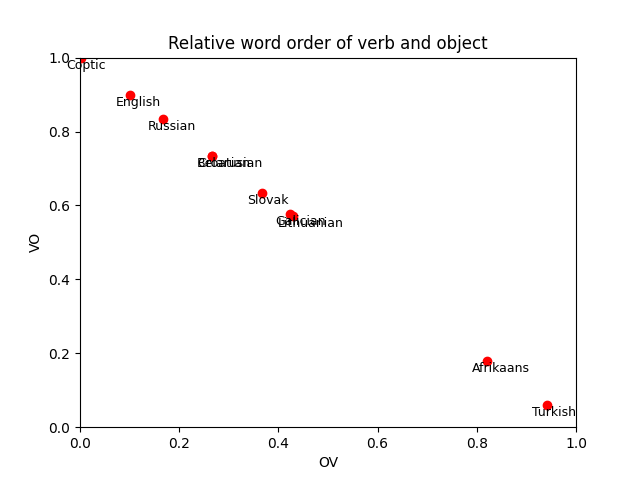
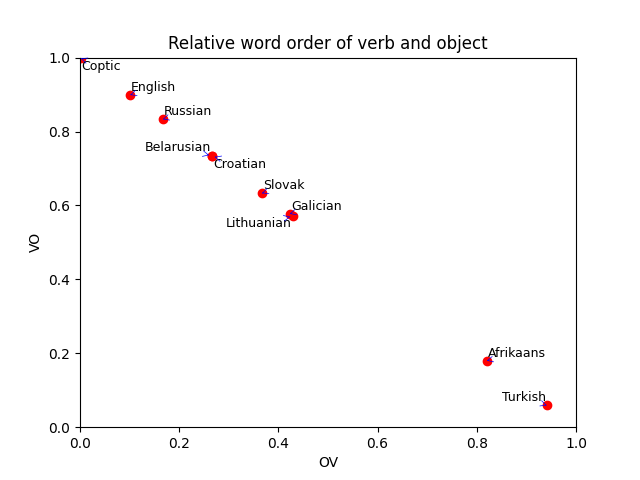
Word order

diff --git a/04_Parsing/graph.py b/04_Parsing/graph.py
@@ -9,6 +9,7 @@ scores = {
 
 import sys
 import matplotlib.pyplot as plt
+from adjustText import adjust_text
 
 labels = {0:'eng', 1:'rus', 2:'gle',3:'tur',4:'spa'}
 
@@ -23,10 +24,12 @@ plt.xlim([0,1]) # Set the x and y axis ranges
 plt.ylim([0,1])
 plt.xlabel('OV') # Set the x and y axis labels
 plt.ylabel('VO')
+texts = []
 for name, vals in scores.items():  # Add labels to each of the points
     n = name.split("/")[0]
     n = n.split("_")[1]
     n = n.split("-")[0]
-    plt.text(vals["ov"]-0.03, vals["vo"]-0.03, n, fontsize=9)
+    texts += [plt.text(vals["ov"], vals["vo"], n, fontsize=9)]
+adjust_text(texts, arrowprops=dict(arrowstyle='->', color='blue', lw=.5))
 plt.savefig("word_order.png")
 plt.show()

diff --git a/04_Parsing/README.md b/04_Parsing/README.md
@@ -1,0 +1,6 @@
+
+# Relative word order 
+
+The languages I chose to compare are Coptic, English, Russian, Belarusian, Croation, Slovak, Galician, Lithuanian, Afrikaans, and Turkish. I was slightly surprised at the close similarity between Belarusian and Croatian, but not Croatian and Slovak. Based on geographic circumstances, I would have expected it to go the other way. 
+
+![Word Order](word_order.png)
